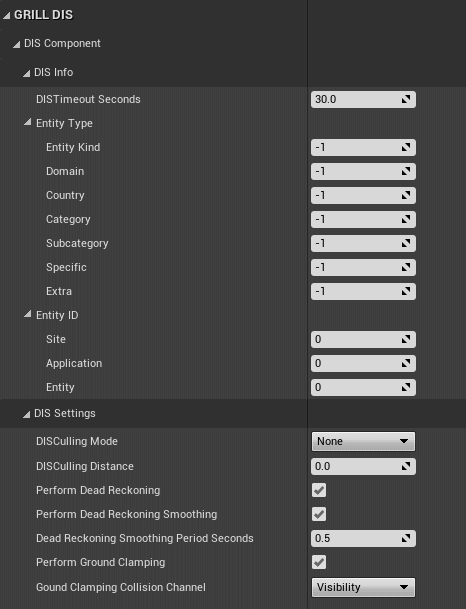
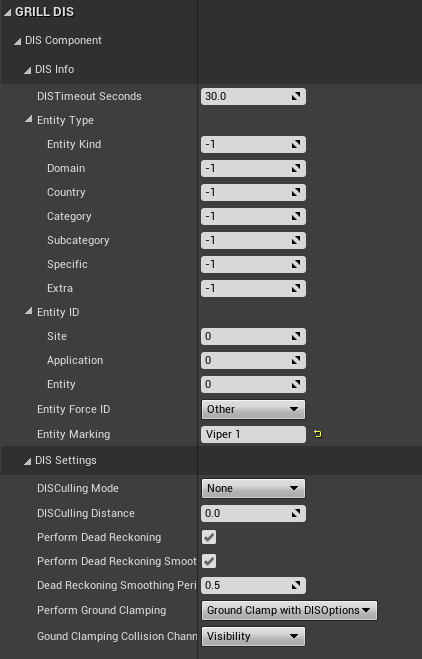
Updated README.md with up to date variables. Also updated images.

Changed region(s): [[0.0, 0.0, 0.8934, 0.9984]]

diff --git a/README.md b/README.md
@@ -146,11 +146,21 @@
     - DIS Timeout
 		- How long to wait after an Entity State PDU is received before deleting. Gets refreshed after an Entity State PDU is received.
     - Entity Type
+		- This record specifies the kind of entity, the country of design, the domain, the specific identification of the entity, and any extra information necessary for describing the entity.
         - Setting this in the component is mainly used for sending DIS data.
-        - This value get set when an Entity State PDU or Entity State Update PDU is received for the associated entity.
+        - This value gets set when an Entity State PDU or Entity State Update PDU is received for the associated entity.
     - Entity ID
+		- This record specifies the site ID, application ID, and entity ID fields. They combine to form a unique identifier of the entity in the exercise.
         - Setting this in the component is mainly used for sending DIS data.
-        - This value get set when an Entity State PDU or Entity State Update PDU is received for the associated entity.
+        - This value gets set when an Entity State PDU or Entity State Update PDU is received for the associated entity.
+    - Entity Force ID
+		- This field distinguishes the different teams or sides in a DIS exercise.
+        - Setting this in the component is mainly used for sending DIS data.
+        - This value gets set when an Entity State PDU or Entity State Update PDU is received for the associated entity.
+    - Entity Marking
+		- This record is used to specify the friendly name of the entity to be interpreted for display.
+        - Setting this in the component is mainly used for sending DIS data.
+        - This value gets set when an Entity State PDU or Entity State Update PDU is received for the associated entity.
 	- DIS Culling Mode
 		- Culls DIS packets based on settings
 			- Options:
@@ -168,7 +178,13 @@
 	- Dead Reckoning Smoothing Period Seconds
 		- Time in seconds that smoothing should take place.
     - Perform Ground Clamping
-        - Whether or not ground clamping should be perfoemd.
+        - Performs ground clamping based on settings
+			- Options:
+				- None
+				- Ground Clamp with DIS Options
+					- Perform ground clamping. Ignore ground clamping for munitions and non-ground entity types.
+				- Always Ground Clamp
+					- Always perform ground clamping regardless of entity type.
     - Ground Clamping Collision Channel
         - The collision channel that should be used for ground clamping.
 
